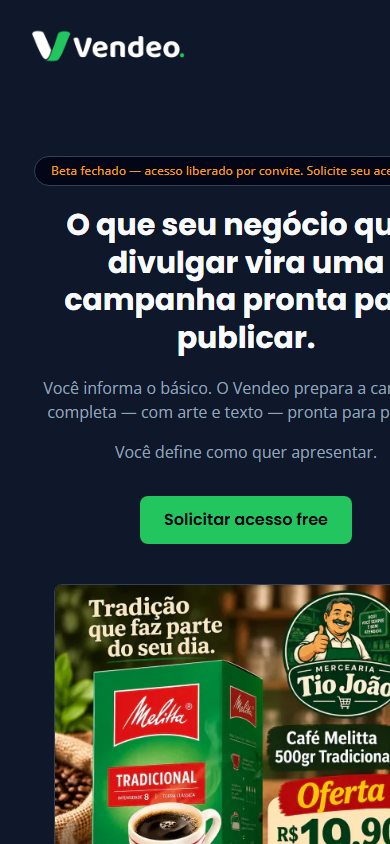
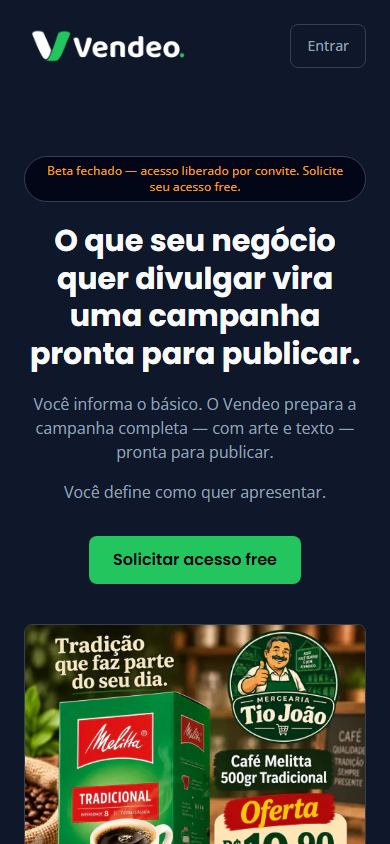
docs(quick-261102-p3w): replace cropped mobile captures with measured viewport images

diff --git a/.planning/quick/261102-p3w-hospedar-localmente-as-fontes-atuais-do-/261102-p3w-SUMMARY.md b/.planning/quick/261102-p3w-hospedar-localmente-as-fontes-atuais-do-/261102-p3w-SUMMARY.md
@@ -105,9 +105,9 @@ Fontes servidas pelo próprio app via 18 `@font-face` locais e 10 WOFF2 oficiais
 ## Screenshots e viewport mobile
 
 As capturas antigas `evidence/before|after/*-390.png` usavam `--window-size` e não
-correspondiam ao viewport de layout; foram **substituídas como evidência** por capturas CDP em
-`evidence/viewport/before|after/` com `Emulation.setDeviceMetricsOverride` (390×844, DPR 1,
-mobile). Medições efetivas antes e depois: `innerWidth=390`, `clientWidth=390`,
+correspondiam ao viewport de layout; os arquivos foram **substituídos no mesmo caminho** por
+capturas CDP em `evidence/viewport/before|after/` com `Emulation.setDeviceMetricsOverride`
+(390×844, DPR 1, mobile). Medições efetivas antes e depois: `innerWidth=390`, `clientWidth=390`,
 `scrollWidth=390`, `body.scrollWidth=390`, DPR=1, `visualViewport.width=390` — **sem overflow
 horizontal**. O corte anterior era artefato da captura, não regressão de CSS. Desktop
 (landing `1440/1425/1425`, login `1440/1440/1440`) também sem overflow.

diff --git a/.planning/quick/261102-p3w-hospedar-localmente-as-fontes-atuais-do-/evidence/verification.md b/.planning/quick/261102-p3w-hospedar-localmente-as-fontes-atuais-do-/evidence/verification.md
@@ -134,7 +134,9 @@ artefato da captura. Desktop: landing `innerWidth=1440`, `clientWidth=1425`,
 
 Arquivos: `evidence/viewport/before|after/{landing,login}-390-viewport.png` (viewport real) e
 `…-390-full.png` (conteúdo completo com a largura de layout), além de `…-1440.png`. As
-capturas antigas `evidence/before|after/*-390.png` permanecem apenas como histórico.
+capturas antigas `evidence/before|after/*-390.png` foram **substituídas no mesmo caminho**
+pelas capturas medidas; as versões cortadas permanecem apenas no histórico do Git. Os pares
+antes/depois continuam byte-idênticos.
 
 ### 6.2 Comparação visual
 
